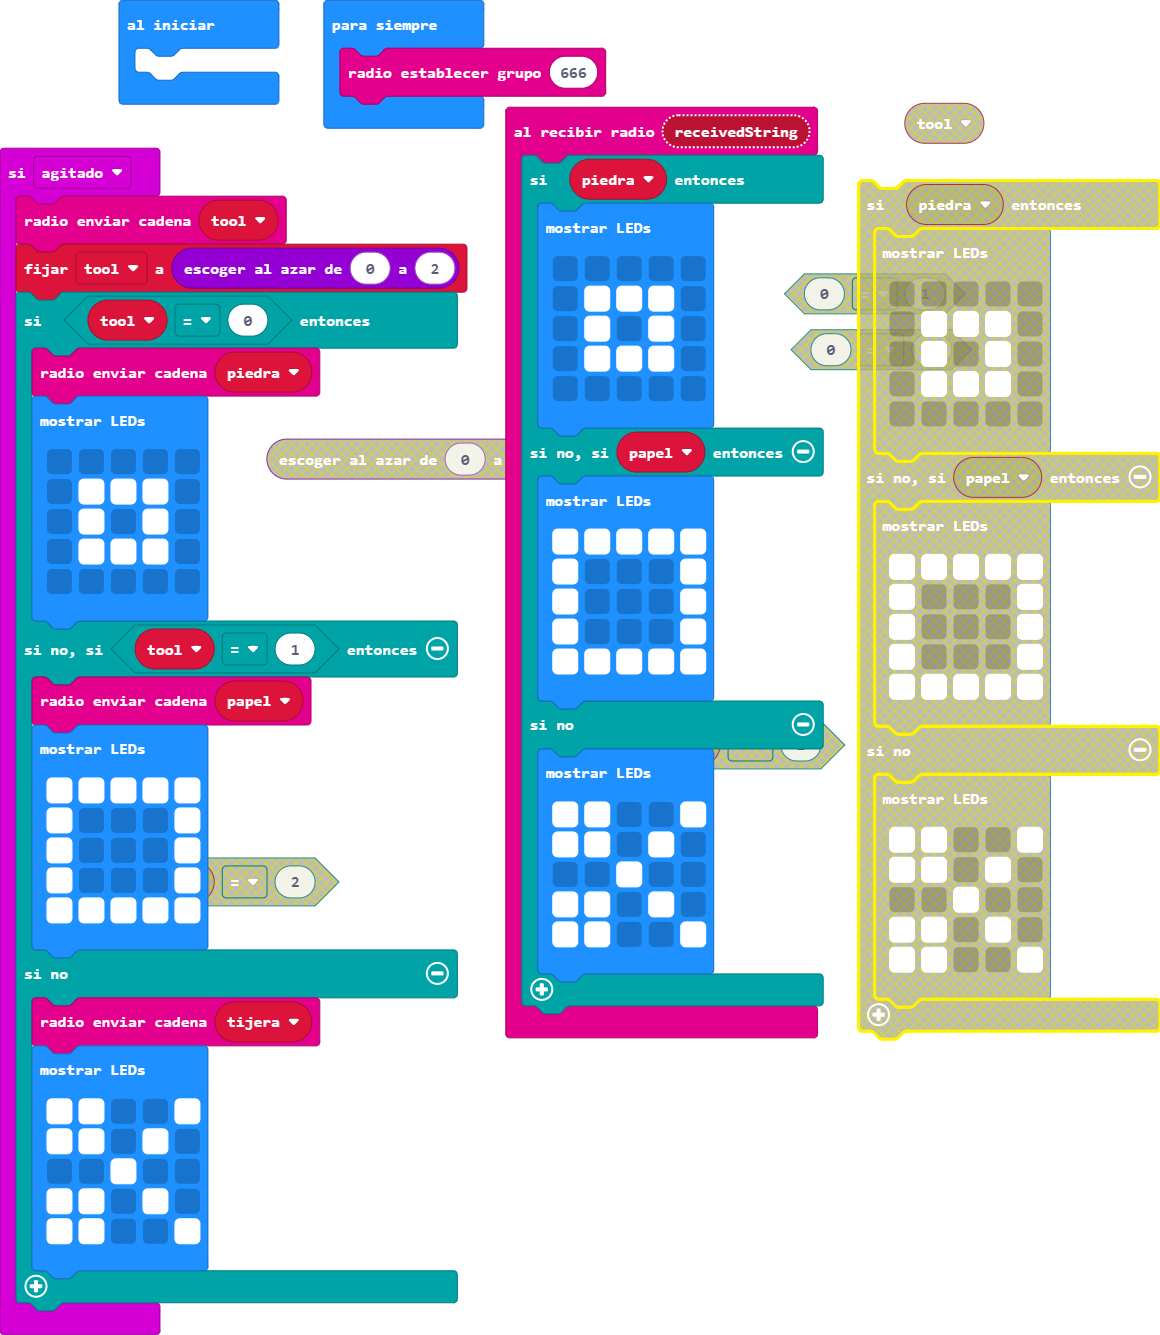
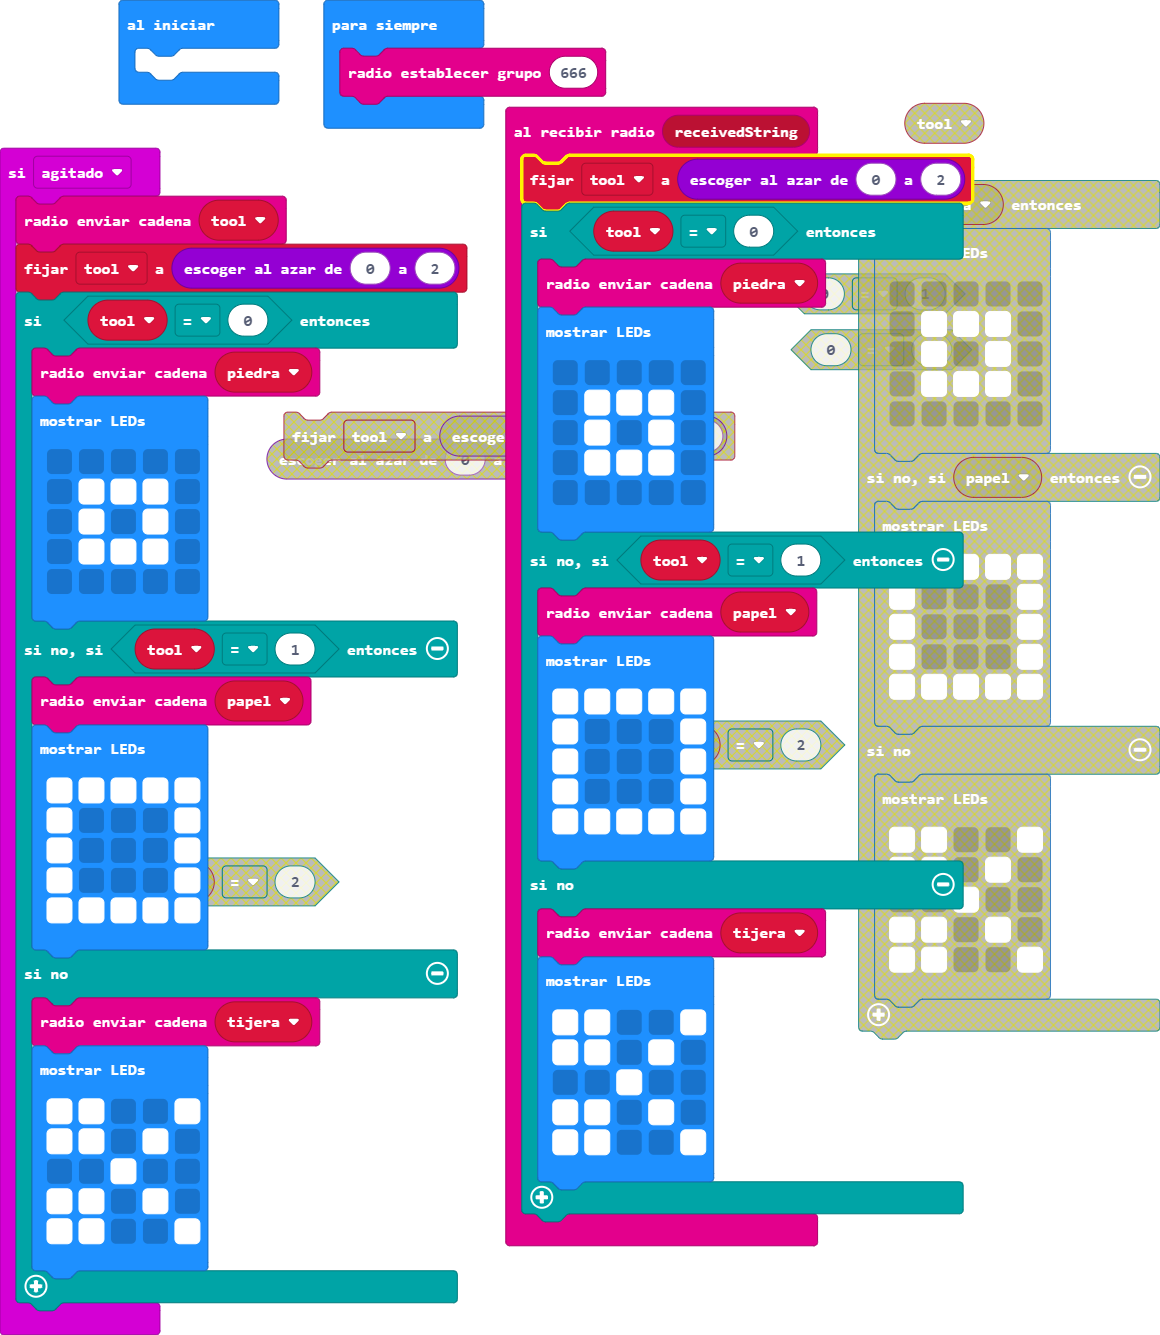
Actualizar main.blocks, main.ts

diff --git a/main.ts b/main.ts
@@ -1,6 +1,7 @@
 let tool = 0
 let piedra = 0
 let papel = 0
+let tijera = 0
 input.onGesture(Gesture.Shake, function () {
     radio.sendString("" + (tool))
     tool = randint(0, 2)
@@ -23,7 +24,6 @@ input.onGesture(Gesture.Shake, function () {
             # # # # #
             `)
     } else {
-        let tijera = 0
         radio.sendString("" + (tijera))
         basic.showLeds(`
             # # . . #
@@ -35,7 +35,9 @@ input.onGesture(Gesture.Shake, function () {
     }
 })
 radio.onReceivedString(function (receivedString) {
-    if (piedra) {
+    tool = randint(0, 2)
+    if (tool == 0) {
+        radio.sendString("" + (piedra))
         basic.showLeds(`
             . . . . .
             . # # # .
@@ -43,7 +45,8 @@ radio.onReceivedString(function (receivedString) {
             . # # # .
             . . . . .
             `)
-    } else if (papel) {
+    } else if (tool == 1) {
+        radio.sendString("" + (papel))
         basic.showLeds(`
             # # # # #
             # . . . #
@@ -52,6 +55,7 @@ radio.onReceivedString(function (receivedString) {
             # # # # #
             `)
     } else {
+        radio.sendString("" + (tijera))
         basic.showLeds(`
             # # . . #
             # # . # .
